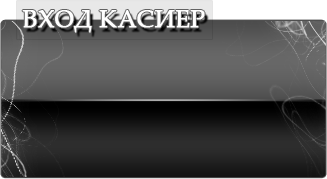
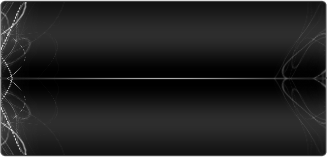
* Translation of the cashier section. * You have global common_lang.php in the language/ folder. There to write the common areas.

diff --git a/application/controllers/sales/index.php b/application/controllers/sales/index.php
@@ -4,6 +4,11 @@ class Index extends MY_Controller {
 	
 	public function __construct(){
 		parent::__construct();
+
+		// Load language file sales_lang.php
+		$this->lang->load('sales');
+        $this->data['lang'] = $this->lang->language;
+
 		$this->data["isLogin"] = $this->isLogin();
 		if($this->isLogin()){
 			$this->data["menu"] = $this->common_model->getMenu();
@@ -36,16 +41,13 @@ class Index extends MY_Controller {
 		if(isset($post["id"]) && !empty($post["id"][0])) {
 			if(isset($post["payment"]) && $post["payment"]>0 && $post["payment"] > $post["total"]) {
 				$this->data["products"] = $this->index_model->getProductPay(
-                        $post["id"], $this->session->userdata("user_data")
-                    );
+                    $post["id"], $this->session->userdata("user_data")
+                );
 			} else {
-				$this->message->type = 'error';
-				$this->message->title = 'Грешка!';
-				$this->message->body = '"'
-                        . '<strong>ПЛАТЕНО</strong> не може да бъде по-малко от'
-                        . '"<strong>СТОЙНОСТ</strong>".<br/>Корегирайте '
-                        . '"<strong>ПЛАТЕНО</strong>" за да бъде положителен баланса ви.';
-				$this->data["message"] = $this->message;
+				$this->message->type 	= 'error';
+				$this->message->title 	= $this->data['lang']['error'];
+				$this->message->body 	= $this->data['lang']['error_message_pay'];
+				$this->data["message"] 	= $this->message;
 			}
 		}
 		$this->index();
@@ -56,10 +58,10 @@ class Index extends MY_Controller {
 		$result = $this->index_model->add($this->input->post());
         
         if($result === false){
-            $this->message->type = 'error';
-				$this->message->title = 'Грешка!';
-				$this->message->body = 'Няма налично такова количество!';
-            $this->data["message"] = $this->message;
+            $this->message->type 	= 'error';
+			$this->message->title 	= $this->data['lang']['error'];
+			$this->message->body 	= $this->data['lang']['error_nqa'];
+            $this->data["message"] 	= $this->message;
             
             $cashier = $this->session->userdata["user_data"];
             $this->data["list"] = $this->index_model->getList($cashier->id);
@@ -86,9 +88,9 @@ class Index extends MY_Controller {
                 $this->session->set_userdata("cashier",true);
                 redirect(base_url() . "sales/");
             } else {
-                $this->message->type = 'error';
-                $this->message->title = 'Грешка!';
-                $this->message->body = 'Грешен касиер или парола, моля корегирайте данните и опитайте отново.';
+                $this->message->type 	= 'error';
+                $this->message->title 	= $this->data['lang']['error'];
+                $this->message->body 	= $this->data['lang']['error_login'];
             }
         }
         

diff --git a/application/core/MY_Controller.php b/application/core/MY_Controller.php
@@ -1,37 +1,23 @@
 <?php
 class MY_Controller extends CI_Controller {
 	
-/**
- * Служебни съобщения
- * @var Object 
- * 		$this->message->type 		= 	'[types]' 	// error OR success
- *  	$this->message->title 		= 	'[titles]' 	// Title message
- *  	$this->message->body 		= 	'[body]' 	// Body message
- *  	$this->message->redirect	= 	[redirect] 	// Integer number 2000 = 2 seconds
- *      $this->message->url			=	'[url]'		// Enter URL address.
- */
 	public $message;
 	
-/**
- * 
- * Съдържа общо ползвани данни за всички views - меню, base_url...
- * @var array
- */
 	protected $data = array();
 	
-/**
- * 
- * Конструктор на базочия контролер. Грижи се да зареди всички общо ползвани данни и да контролира правата на потребителя
- * @param boolean $forse_menu true - не отчита правата на потребителя и покзва всички достъпни страници
- */
 	public function __construct() {
 		parent::__construct();
+
 		$this->message = $this->Message();
-		$this->data["base_url"] = base_url();
+		$this->data['base_url'] = base_url();
         $this->data['var'] = $this->getSettings();
+
+        //Loading language from common_lang.php
+        $this->lang->load('common');
+        $this->data['lang'] = $this->lang->language;
 	}
 	
-	public function Message(){
+	private function Message(){
 		$this->message = new stdClass();
 		return $this->message;
 	}
@@ -111,7 +97,7 @@ class MY_Controller extends CI_Controller {
         return $this->common_model->getInvoiceNumber();
     }
 
-
+    // Generate PDF file.
     protected function createPDF(){
         $lang = 'bg';
         $this->data['invoice_date'] = date('Y-m-d_H:i:s');

diff --git a/application/models/sales/index_model.php b/application/models/sales/index_model.php
@@ -63,8 +63,7 @@ class Index_model extends MY_Model {
 				SELECT *
 				FROM `" . __TBL_USERS . "`
 				WHERE (
-						`username` = ".$this->db->escape($data["cashier"])." OR
-						`card_number` = ".$this->db->escape($data["cashier"])."
+						`username` = ".$this->db->escape($data["cashier"])."
 					)
 					AND `password` = MD5(".$this->db->escape($data["password"]).")
 			");

diff --git a/application/config/config.php b/application/config/config.php
@@ -69,7 +69,7 @@ $config['url_suffix'] = '';
 | than english.
 |
 */
-$config['language']	= 'bulgarian';
+$config['language']	= 'english'; // bulgarian
 
 /*
 |--------------------------------------------------------------------------
